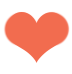
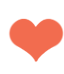
cambio de icono like

Changed region(s): [[0.0312, 0.1622, 1.0, 0.8649]]

diff --git a/src/style.css b/src/style.css
@@ -161,7 +161,6 @@ header{
   margin-top: 0.5rem;
 }
 
-.like-btn,
 .trigger-comment-form-btn,
 .share-comment-btn,
 .publish-comment-btn {
@@ -177,7 +176,6 @@ header{
   border: none;
 }
 
-.like-btn:hover,
 .trigger-comment-form-btn:hover,
 .share-comment-btn:hover,
 .publish-comment-btn:hover {
@@ -185,7 +183,6 @@ header{
   cursor: pointer;
 }
 
-.like-btn:active,
 .trigger-comment-form-btn:active,
 .share-comment-btn:active,
 .publish-comment-btn:active {
@@ -456,83 +453,36 @@ textarea.comment-content {
   display: block;
 }
 
-/*Like
-.like-post{
+/*Like*/
+
+.like-btn {
+  background: url('./images/iconos/heartPL.png');
+  background-repeat:no-repeat;
+  height:100px;
+  width:100px;
+  background-position:center;
+  border: none;
+  font-family: 'Manjari', sans-serif;
+  margin: 0;
+}
+.like-btn:active {
+  background: url('./images/iconos/disLike.png');
+  background-repeat:no-repeat;
+  height:100px;
+  width:100px;
+  background-position:center;
+  border: none;
+  font-family: 'Manjari', sans-serif;
+  margin: 0;
+}
+
+.grupLike {
   display: flex;
-  height: 15em;
-  flex-direction: column;
+  justify-content: flex-start;
+  height: 100%;
   align-items: center;
-  justify-content: space-between;
-}
-.like-picture{
-  width: 50px;
-  height: 50px;
-  border-radius: 50%;
-  margin-bottom: 0.5em;
-}
-.like-counter{
-  display: flex;
-  flex-direction: column;
-  align-items: center;
-  justify-content: space-between;
-}
-
-.heart {
-  background-color: #C4C4C4;
-  height: 20px;
-  transform: rotate(-45deg);
-  width: 20px;
-  margin-bottom: 0.5em;
-}
-
-.heart:before,
-.heart:after {
-content: "";
-background-color: #C4C4C4;
-border-radius: 50%;
-height: 20px;
-position: absolute;
-width: 20px;
-}
-
-.heart:before {
-  top: -10px;
-  left: 0;
-}
-
-.heart:after {
-  left: 10px;
-  top: 0;
-}
-
-.heart-2 {
-  background-color: #c05869;
-  height: 20px;
-  transform: rotate(-45deg);
-  width: 20px;
-  margin-bottom: 0.5em;
-}
-
-.heart-2:before,
-.heart-2:after {
-content: "";
-background-color: #c05869;
-border-radius: 50%;
-height: 20px;
-position: absolute;
-width: 20px;
-}
-
-.heart-2:before {
-  top: -10px;
-  left: 0;
-}
-
-.heart-2:after {
-  left: 10px;
-  top: 0;
 }
 .counter-text{
   font-size: 1.2em;
-  font-family: "Noto sans", sans-serif;
-}*/
+  font-family: 'Manjari', sans-serif;
+}

diff --git a/src/lib/functions.js b/src/lib/functions.js
@@ -166,34 +166,19 @@ export const postsByCategoryFn = (view, category) => {
     likeBtns.forEach((btn) => {
       btn.addEventListener('click', (event) => {
         event.preventDefault();
-        const postId = event.target.parentElement.parentElement.getAttribute('data-postid');
+        const postId = event.target.parentElement.parentElement.parentElement.getAttribute('data-postid');
         console.log(postId);
         if (auth.currentUser !== null) {
           likeOrUnlike(postId, category, btn);
         } else {
           alert("Inicia sesión para dar like a esta publicación");
         }
-
       });
     });
   });
 };
-
-/*//like
-likeBtns.forEach(btn => {
-  btn.addEventListener('click', (event) => {
-    event.preventDefault();
-    let postID = event.target.parentElement.parentElement.getAttribute('data-postid');
-    console.log(`Le diste me gusta al post ${postID} (solo se agrega el userName si no se había dado "like" antes - SI HAY ERROR ES PORQUE NO HAY USUARIO CONECTADO!)`);
-    // obteniendo el id del usuario conectado
-    db.collection('user').doc(`${auth.currentUser.uid}`).get().then(user => {
-      // agregando likes
-      db.collection('posts').doc(`${postID}`).update({
-        likes: firebase.firestore.FieldValue.arrayUnion(`${user.data().userName}`),
-      })
-    });
-  });
-});
+// search del header algun dia
+/*
 // POSTS DEL HOME
 export const homePostsFn = (view) => {
   const publicationContainer = document.querySelector('#publication');

diff --git a/src/lib/views/categoryView.js b/src/lib/views/categoryView.js
@@ -10,11 +10,11 @@ export const categoryView = (doc, formattedDate) => {
   }
 
   let likeString;
-    if (liked === true) {
-      likeString = "Ya no me gusta";
-    } else {
-      likeString = "Me gusta";
-    }
+  if (liked === true) {
+    likeString = "Ya no me gusta";
+  } else {
+    likeString = "Me gusta";
+  }
   const postsView = `
 <section data-postid="${doc.id}" id="home-post-container">
   <div class="home-post">
@@ -41,7 +41,9 @@ export const categoryView = (doc, formattedDate) => {
   </div> 
   </div>  
     <div class="post-actions">
-      <button class="like-btn">${likeString}</button>
+    <div class="grupLike">
+    <button class="like-btn">${likeString}</button>
+    <p class="counter-text">${docData.likes.length}</p></div>
       <button class="trigger-comment-form-btn">Comentar</button>
       <button class="share-comment-btn">Compartir</button>
     </div>

diff --git a/src/media-queries.css b/src/media-queries.css
@@ -61,8 +61,6 @@
     margin: 3rem auto;
 
   }
-
-  .like-btn,
   .trigger-comment-form-btn,
   .share-comment-btn,
   .publish-comment-btn {
